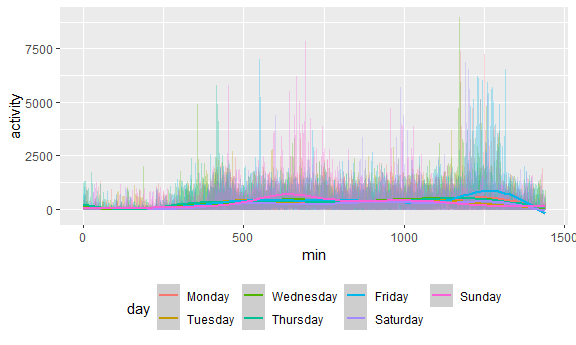
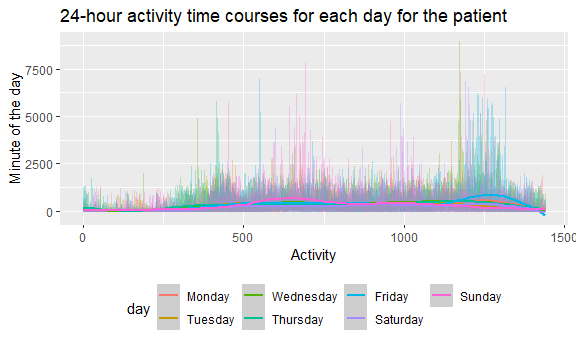
some editings

diff --git a/p8105_hw3_yc3883.md b/p8105_hw3_yc3883.md
@@ -87,7 +87,7 @@ popitem_tb =
     ord_rank = min_rank(desc(n_ord))
   ) %>% 
   filter(ord_rank < 4) %>% 
-  knitr::kable()
+  knitr::kable(caption = "Three most popular items in each of the aisles")
 
 popitem_tb
 ```
@@ -103,6 +103,8 @@ popitem_tb
 | packaged vegetables fruits | Organic Baby Spinach                          |   9784 |         1 |
 | packaged vegetables fruits | Organic Blueberries                           |   4966 |         3 |
 | packaged vegetables fruits | Organic Raspberries                           |   5546 |         2 |
+
+Three most popular items in each of the aisles
 
 ## Problem 1 (c)
 
@@ -123,7 +125,7 @@ meanh_tb =
     names_from = "order_dow",
     values_from = "mean_hod",
   ) %>% 
-  knitr::kable()
+  knitr::kable(caption = "The mean hour of the day at which Pink Lady Apples and Coffee Ice Cream are ordered on each day of the week")
 
 meanh_tb
 ```
@@ -132,6 +134,9 @@ meanh_tb
 |:-----------------|---------:|---------:|---------:|---------:|---------:|---------:|---------:|
 | Coffee Ice Cream | 13.77419 | 14.31579 | 15.38095 | 15.31818 | 15.21739 | 12.26316 | 13.83333 |
 | Pink Lady Apples | 13.44118 | 11.36000 | 11.70213 | 14.25000 | 11.55172 | 12.78431 | 11.93750 |
+
+The mean hour of the day at which Pink Lady Apples and Coffee Ice Cream
+are ordered on each day of the week
 
 # Problem 2
 
@@ -249,7 +254,7 @@ health_exc =
   geom_line() +  
   labs(
     title = "Average data_value for each state across years",
-    y = "Data Value",
+    y = "Average Data Value",
     x = "year",
     caption = "Data from BRFSS datasets"
   ) +
@@ -280,7 +285,13 @@ health_dis =
   drop_na(data_value) %>% 
   ggplot(aes(x = response, y = data_value)) +
   geom_boxplot() +
-  facet_grid(. ~ year) +
+  facet_grid(. ~ year) + 
+  labs(
+    title = "Distribution of data_value for responses for 2006 and 2010",
+    y = "Data value",
+    x = "Response",
+    caption = "Data from BRFSS datasets"
+  ) +
   theme(axis.text.x = element_text(angle = 90, vjust = 0.4, hjust = 1))
 
 health_dis
@@ -337,7 +348,7 @@ accelto_tb =
     names_from = "day",
     values_from = "total_act"
   ) %>% 
-  knitr::kable()
+  knitr::kable(caption = "Total activity over the day")
 
 accelto_tb
 ```
@@ -349,6 +360,8 @@ accelto_tb
 |    3 | 685910.00 | 381507.0 |    468869 | 371230.0 | 467420.0 |   382928 | 467052 |
 |    4 | 409450.00 | 319568.0 |    434460 | 340291.0 | 154049.0 |     1440 | 260617 |
 |    5 | 389080.00 | 367824.0 |    445366 | 549658.0 | 620860.0 |     1440 | 138421 |
+
+Total activity over the day
 
 There is no apparent trends
 
@@ -366,6 +379,11 @@ accelplot =
   ggplot(aes(x = min, y = activity, color = day)) +
   geom_line(alpha = .3) +
   geom_smooth() +
+  labs(
+    title = "24-hour activity time courses for each day for the patient",
+    y = "Minute of the day",
+    x = "Activity",
+  ) +
   theme(legend.position = "bottom")
 
 accelplot
